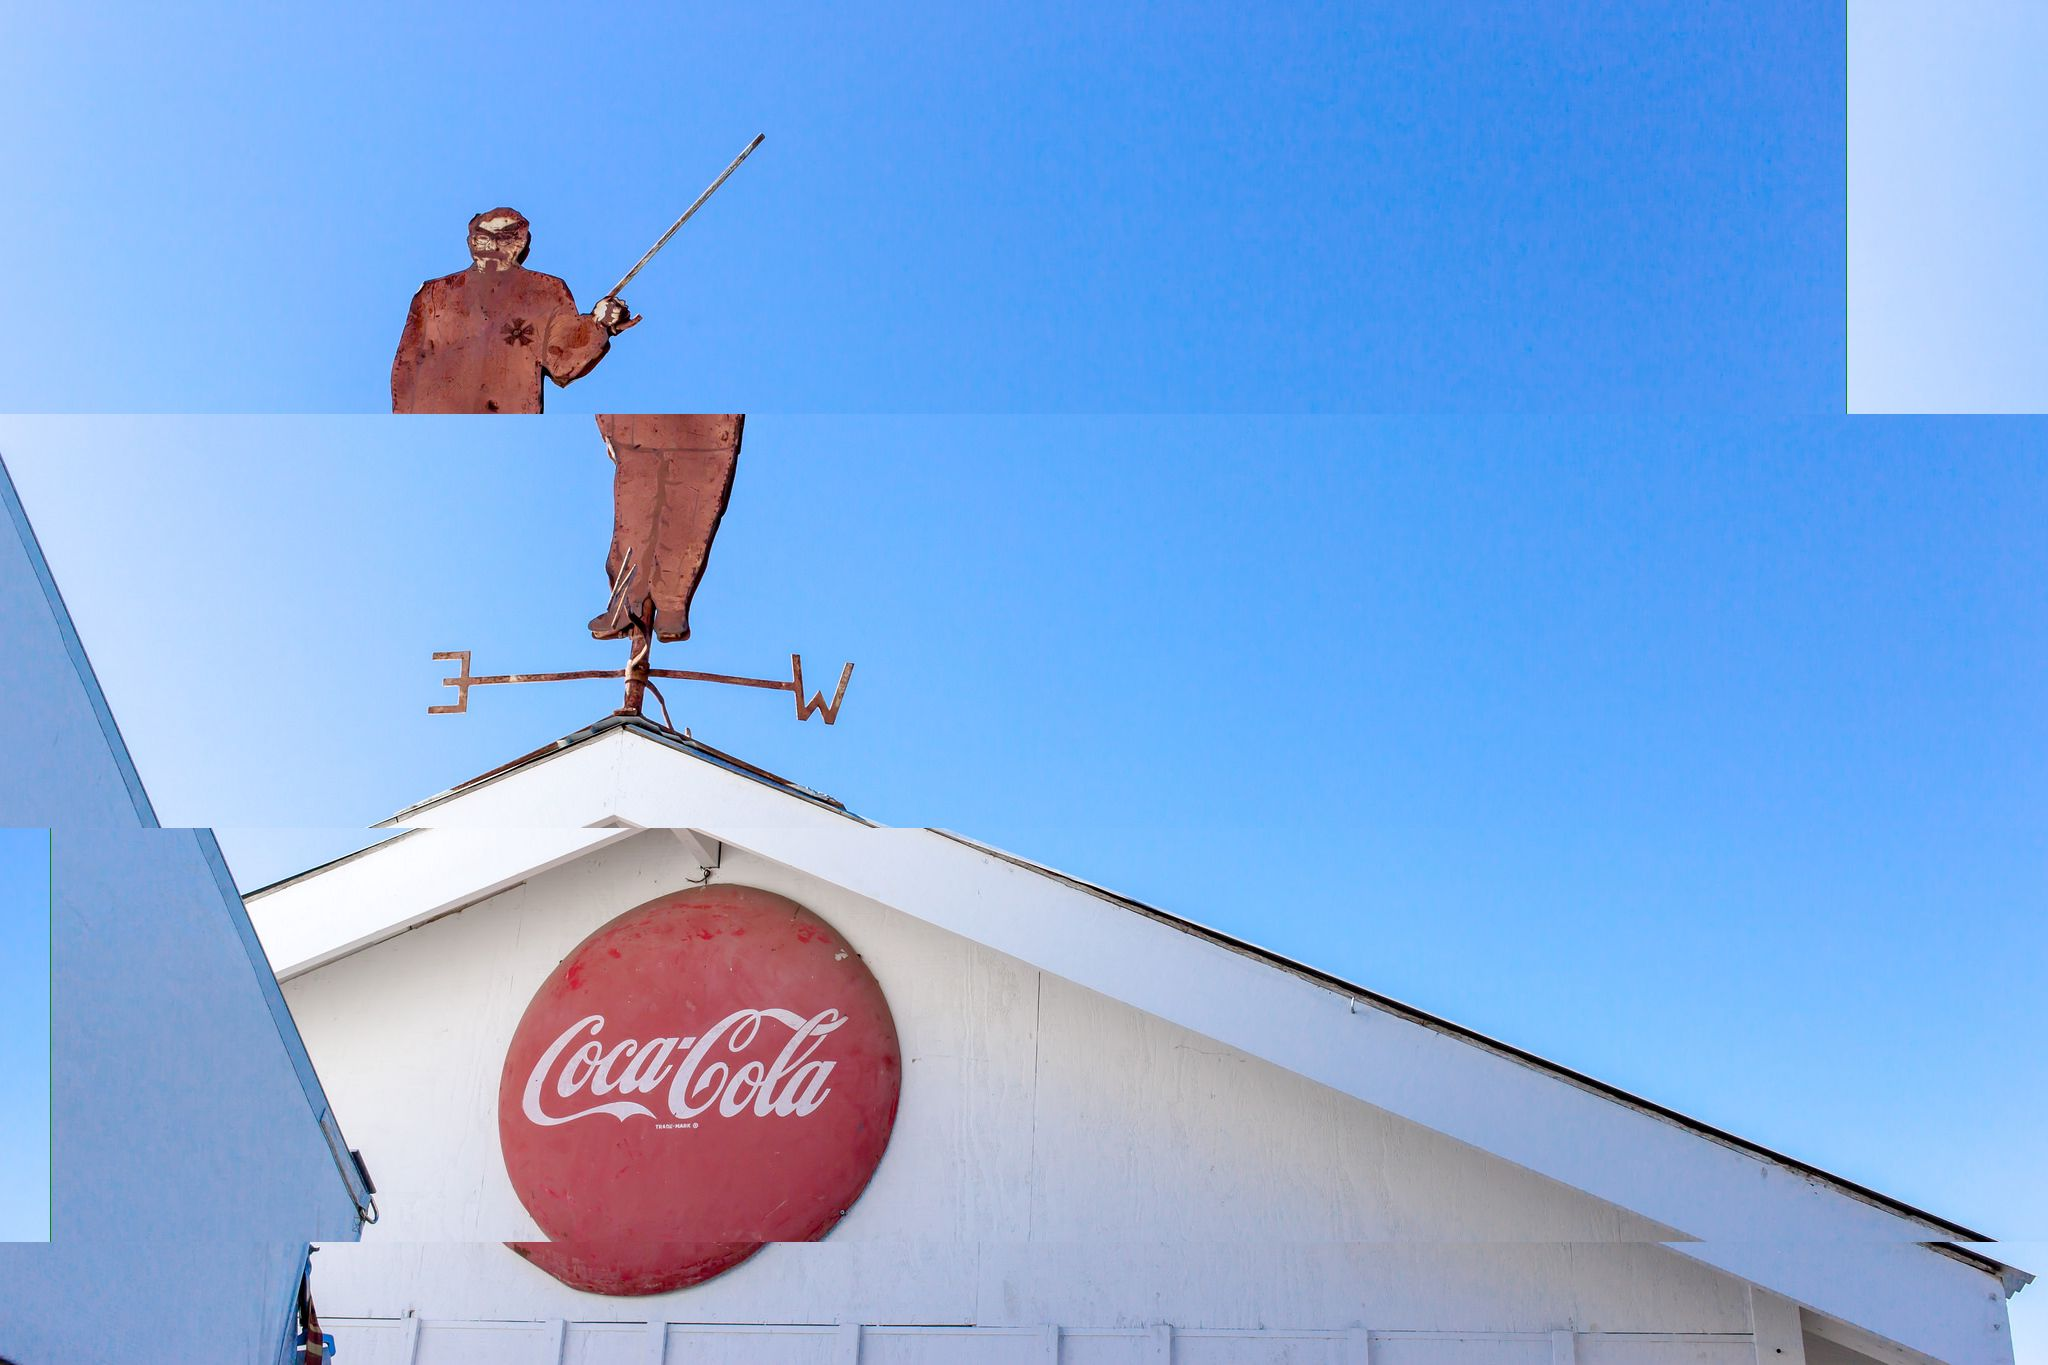
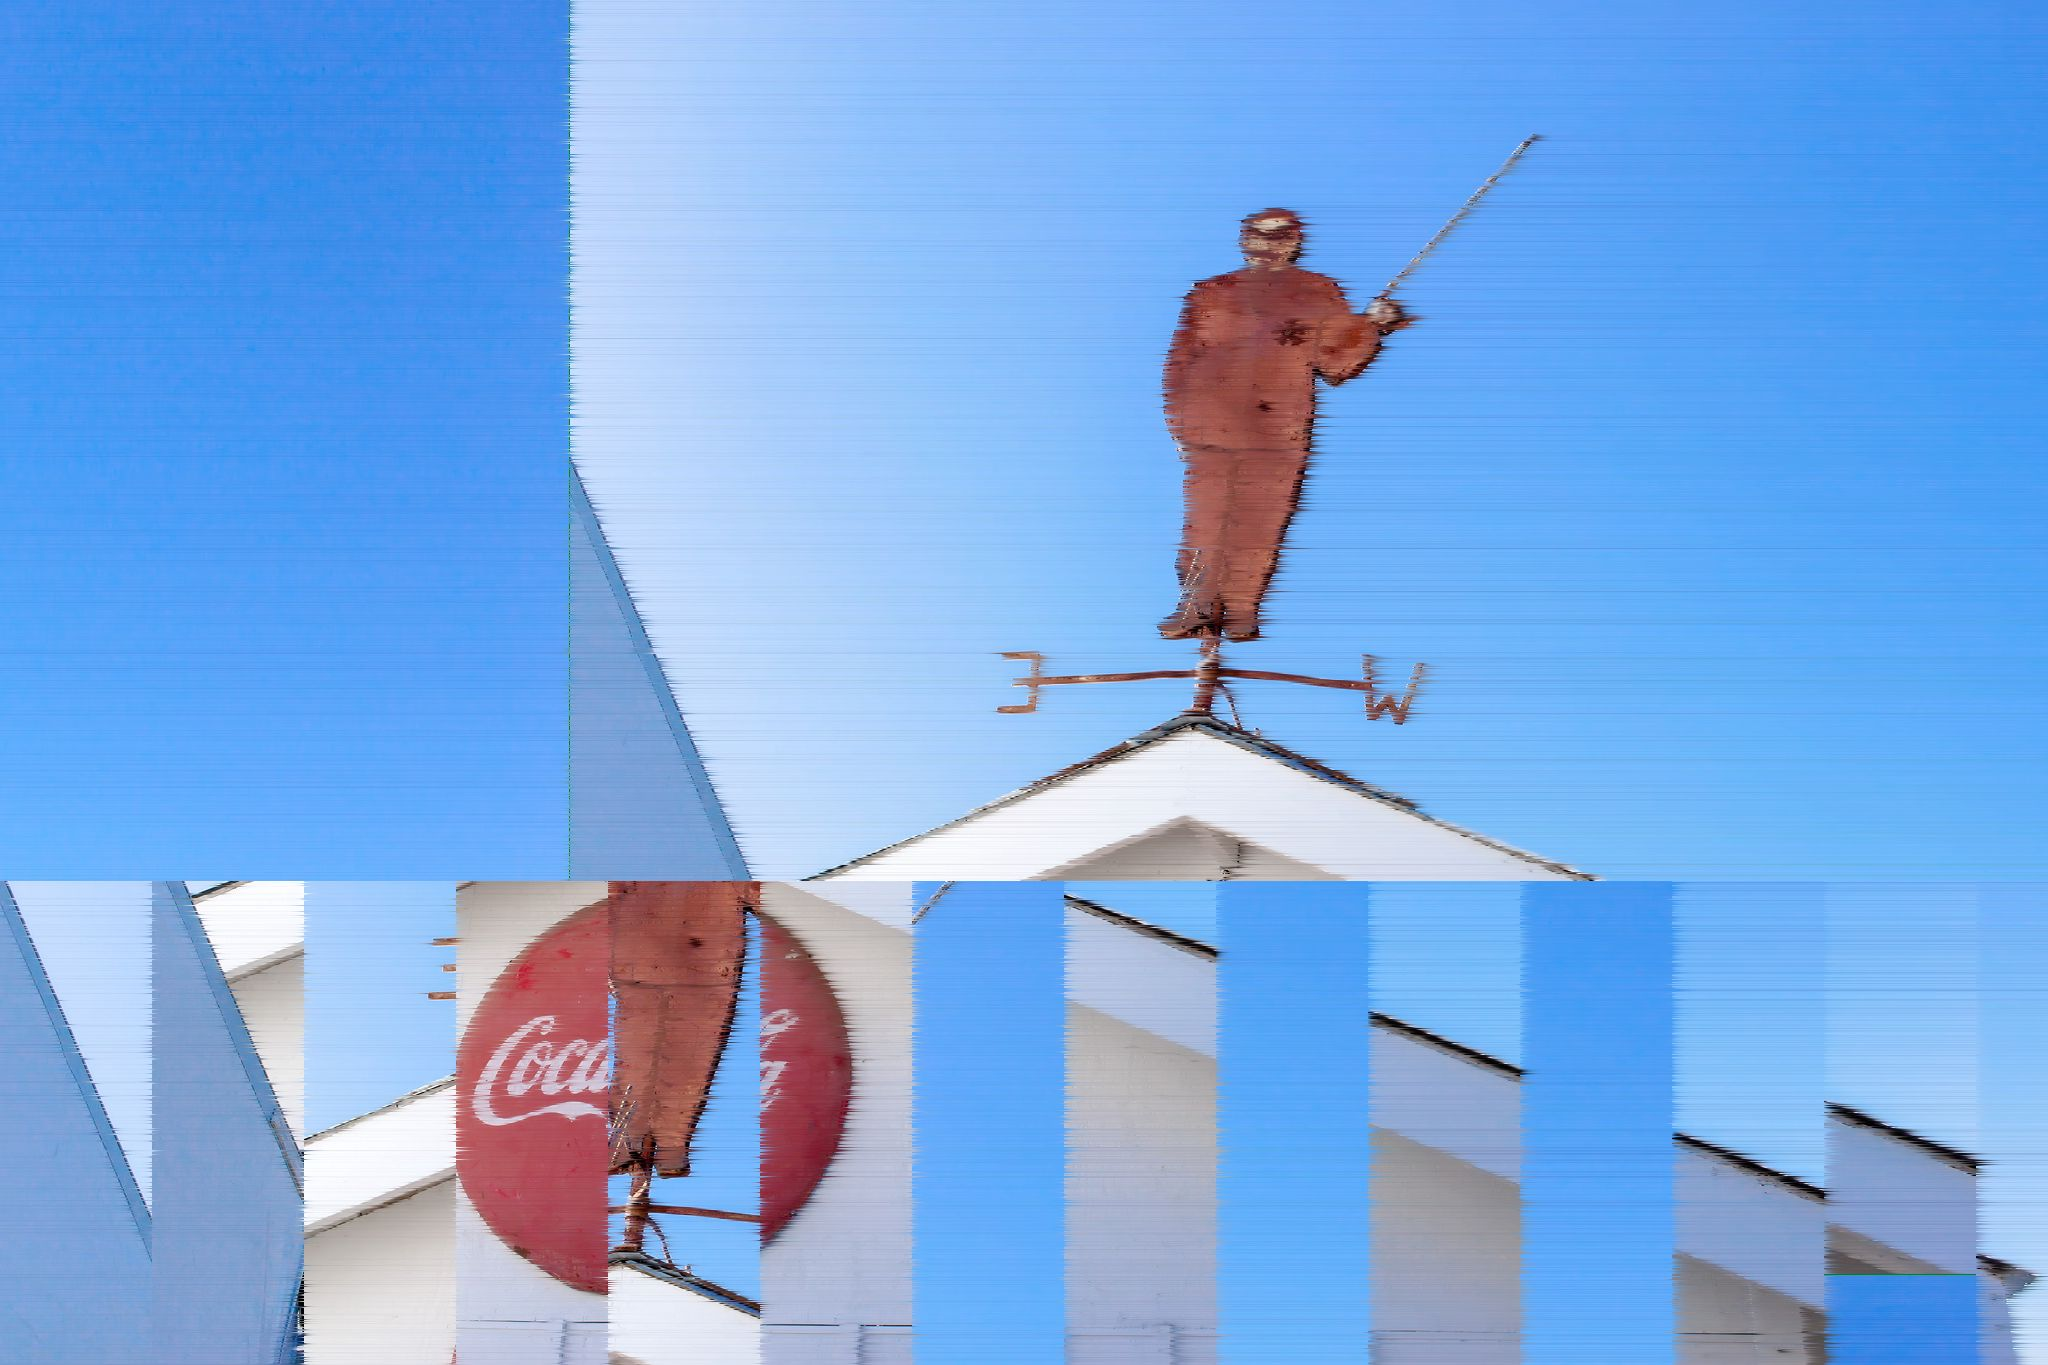
More functions

diff --git a/glitch.go b/glitch.go
@@ -2,12 +2,17 @@ package glitch
 
 import (
 	"image"
+	"image/color"
 	"image/draw"
 	"image/jpeg"
 	"io"
+	"math"
 	"math/rand"
 	"os"
 )
+
+// MAXC is the maxium value returned by RGBA() will have
+const MAXC = 65535.0
 
 // Glitch represents the two images needed to produce a glitch
 type Glitch struct {
@@ -38,33 +43,34 @@ func NewGlitch(filename string) (*Glitch, error) {
 
 	return glitch, nil
 }
+func (gl *Glitch) Seed(seed int64) {
+	rand.Seed(seed)
+}
 
-func (g *Glitch) Write(out io.Writer) error {
+func (gl *Glitch) Write(out io.Writer) error {
 	var opt jpeg.Options
 	opt.Quality = 80
 
-	return jpeg.Encode(out, g.Output, &opt)
+	return jpeg.Encode(out, gl.Output, &opt)
 }
 
 // Copy just takes the image and copies to the output
-func (g *Glitch) Copy() {
-	bounds := g.Input.Bounds()
-	draw.Draw(g.Output, bounds, g.Input, bounds.Min, draw.Src)
+func (gl *Glitch) Copy() {
+	bounds := gl.Input.Bounds()
+	draw.Draw(gl.Output, bounds, gl.Input, bounds.Min, draw.Src)
 }
 
 // Transpose moves slices of the image. Seed is used to randomize the placement
-func (g *Glitch) Transpose(seed int64) {
-	rand.Seed(seed)
-
-	height := rand.Intn(g.Bounds.Dy())
-	b := g.Bounds
+func (gl *Glitch) Transpose() {
+	height := rand.Intn(gl.Bounds.Dy())
+	b := gl.Bounds
 	cursor := b.Min.Y
 
 	// Decide if we start transposing or not
 	transpose := randBool()
 
 	for cursor < b.Max.Y {
-		width := rand.Intn(g.Bounds.Dx())
+		width := rand.Intn(gl.Bounds.Dx())
 		if transpose {
 			next := cursor + height
 			if next > b.Max.Y {
@@ -76,8 +82,8 @@ func (g *Glitch) Transpose(seed int64) {
 					if tx > b.Max.X {
 						tx = tx - b.Max.X
 					}
-					color := g.Input.At(tx, cursor)
-					g.Output.Set(x, cursor, color)
+					color := gl.Input.At(tx, cursor)
+					gl.Output.Set(x, cursor, color)
 				}
 				cursor++
 			}
@@ -90,6 +96,159 @@ func (g *Glitch) Transpose(seed int64) {
 	}
 }
 
+// VerticalTranspose moves slices of the image. Seed is used to randomize the placement
+func (gl *Glitch) VerticalTranspose() {
+	width := rand.Intn(gl.Bounds.Dx())
+	b := gl.Bounds
+	cursor := b.Min.X
+
+	// Decide if we start transposing or not
+	transpose := randBool()
+
+	for cursor < b.Max.X {
+		height := rand.Intn(gl.Bounds.Dy())
+		if transpose {
+			next := cursor + width
+			if next > b.Max.X {
+				return
+			}
+			for cursor < next {
+				for y := b.Min.Y; y < b.Max.Y; y++ {
+					ty := y + height
+					if ty > b.Max.Y {
+						ty = ty - b.Max.Y
+					}
+					color := gl.Input.At(cursor, ty)
+					gl.Output.Set(cursor, y, color)
+				}
+				cursor++
+			}
+			cursor = next
+		} else {
+			cursor = cursor + width
+		}
+
+		transpose = !transpose
+	}
+}
+
+// ChannelShiftLeft shift all channels left on RGB
+func (gl *Glitch) ChannelShiftLeft() {
+	b := gl.Bounds
+
+	for y := b.Min.Y; y < b.Max.Y; y++ {
+		for x := b.Min.X; x < b.Max.X; x++ {
+			r, g, b, a := gl.Output.At(x, y).RGBA()
+			sc := color.RGBA{
+				R: uint8(g),
+				G: uint8(b),
+				B: uint8(r),
+				A: uint8(a),
+			}
+			gl.Output.Set(x, y, sc)
+		}
+	}
+}
+
+// ChannelShiftRight shift all channels right on RGB
+func (gl *Glitch) ChannelShiftRight() {
+	b := gl.Bounds
+
+	for y := b.Min.Y; y < b.Max.Y; y++ {
+		for x := b.Min.X; x < b.Max.X; x++ {
+			r, g, b, a := gl.Output.At(x, y).RGBA()
+			sc := color.RGBA{
+				R: uint8(b),
+				G: uint8(r),
+				B: uint8(g),
+				A: uint8(a),
+			}
+			gl.Output.Set(x, y, sc)
+		}
+	}
+}
+
+// HalfLifeRight takes points and drags color right with a half life.
+func (gl *Glitch) HalfLifeRight() {
+	b := gl.Bounds
+
+	strikes := rand.Intn(b.Dy())
+
+	for strikes > 0 {
+		x := rand.Intn(b.Max.X)
+		y := rand.Intn(b.Max.Y)
+		kc := gl.Output.At(x, y)
+
+		for x < b.Max.X {
+			r1, g1, b1, a1 := kc.RGBA()
+			r2, g2, b2, a2 := gl.Output.At(x, y).RGBA()
+
+			kc = color.RGBA{
+				c(r1/4*3 + r2/4),
+				c(g1/4*3 + g2/4),
+				c(b1/4*3 + b2/4),
+				c(a1/4*3 + a2/4),
+			}
+
+			gl.Output.Set(x, y, kc)
+			x++
+		}
+
+		strikes--
+	}
+}
+
+// HalfLifeLeft takes points and drags color Left with a half life.
+func (gl *Glitch) HalfLifeLeft() {
+	b := gl.Bounds
+
+	strikes := rand.Intn(b.Dy())
+
+	for strikes > 0 {
+		x := rand.Intn(b.Max.X)
+		y := rand.Intn(b.Max.Y)
+		kc := gl.Output.At(x, y)
+
+		for x >= 0 {
+			r1, g1, b1, a1 := kc.RGBA()
+			r2, g2, b2, a2 := gl.Output.At(x, y).RGBA()
+
+			kc = color.RGBA{
+				c(r1/4*3 + r2/4),
+				c(g1/4*3 + g2/4),
+				c(b1/4*3 + b2/4),
+				c(a1/4*3 + a2/4),
+			}
+
+			gl.Output.Set(x, y, kc)
+			x--
+		}
+
+		strikes--
+	}
+}
+
+func mixColor(cv1, cv2, av1, av2 uint32) uint32 {
+	if av1 == 0 && av2 == 0 {
+		return 0.0
+	}
+	a1 := float64(av1)
+	a2 := float64(av2)
+	c1 := float64(cv1)
+	c2 := float64(cv2)
+
+	a0 := (a1 + a2*(1-a1))
+	c0 := (c1*a1 + c2*a2*(1-a1)) / a0
+	// THis max might not be needed
+	c0 = math.Max(0.0, math.Min(c0, MAXC))
+
+	return uint32(c0)
+}
+
+func c(a uint32) uint8 {
+	return uint8((float64(a) / MAXC) * 255)
+}
+
 func randBool() bool {
 	return rand.Intn(2) != 0
 }
@@ -100,10 +259,4 @@ func maxInt(a, b int) int {
 	}
 
 	return b
-}
-
-func check(e error) {
-	if e != nil {
-		panic(e)
-	}
 }

diff --git a/examples/basic.go b/examples/basic.go
@@ -11,7 +11,18 @@ func main() {
 	check(err)
 
 	gl.Copy()
-	gl.Transpose(12)
+	gl.Seed(11)
+	gl.VerticalTranspose()
+	gl.Seed(1)
+	gl.Transpose()
+	//gl.ChannelShiftRight()
+	gl.Seed(43)
+	gl.HalfLifeRight()
+	gl.HalfLifeRight()
+	gl.HalfLifeRight()
+	gl.HalfLifeRight()
+	gl.HalfLifeRight()
+	gl.HalfLifeLeft()
 
 	f, err := os.Create("./basic.jpg")
 	check(err)
